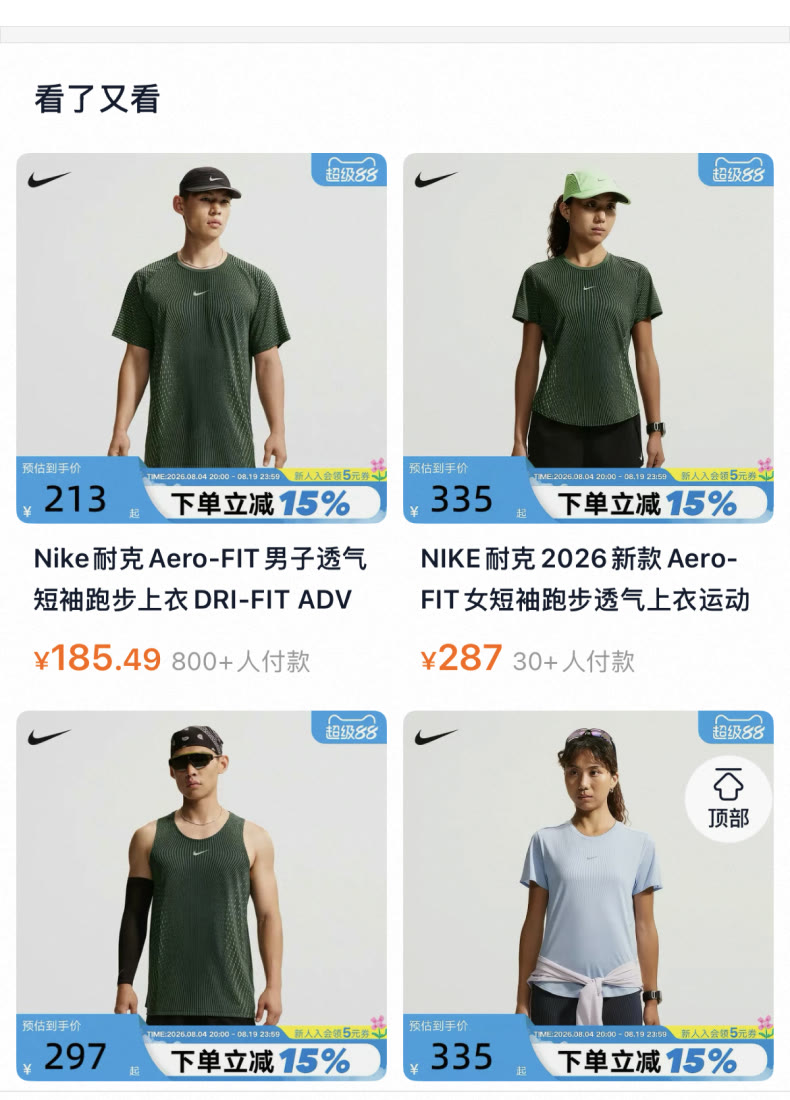
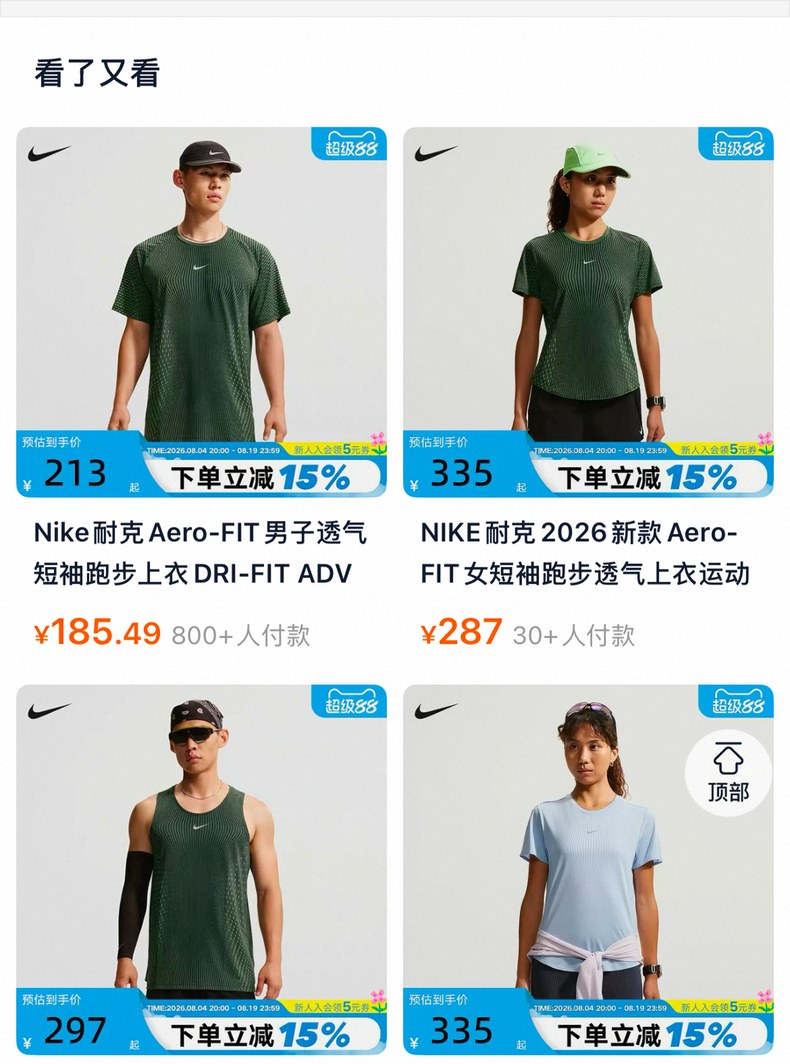
Show shared recommendations on ACC backpacks and refresh look-again artwork

diff --git a/products.js b/products.js
@@ -9,6 +9,7 @@ window.NIKE_PRODUCTS = [
     hero: ['assets/products/nike-acc-1/hero-1.png','assets/products/nike-acc-1/hero-2.jpeg','assets/products/nike-acc-1/hero-3.jpeg','assets/products/nike-acc-1/hero-4.jpeg','assets/products/nike-acc-1/hero-5.png'],
     detailParts: ['assets/products/acc-eg-v66/eg1-detail/01.jpg','assets/products/acc-eg-v66/eg1-detail/02.jpg','assets/products/acc-eg-v66/eg1-detail/03.jpg','assets/products/acc-eg-v66/eg1-detail/04.jpg','assets/products/acc-eg-v66/eg1-detail/05.jpg','assets/products/acc-eg-v66/eg1-detail/06.jpg','assets/products/acc-eg-v66/eg1-detail/07.jpg'],
     hideGalleryStrip: true,
+    appendSharedRecommendations: true,
     detailAlt: 'Nike 21L 运动双肩包 ACC 1 完整商品详情',
     specs: ['双肩包','运动','Nike','通用'],
   },
@@ -22,6 +23,7 @@ window.NIKE_PRODUCTS = [
     hero: ['assets/products/nike-acc-2/hero-1.png','assets/products/nike-acc-2/hero-2.jpeg','assets/products/nike-acc-2/hero-3.jpeg','assets/products/nike-acc-2/hero-4.jpeg','assets/products/nike-acc-2/hero-5.png'],
     detailParts: ['assets/products/acc-eg-v66/eg2-detail/01.jpg','assets/products/acc-eg-v66/eg2-detail/02.jpg','assets/products/acc-eg-v66/eg2-detail/03.jpg','assets/products/acc-eg-v66/eg2-detail/04.jpg','assets/products/acc-eg-v66/eg2-detail/05.jpg','assets/products/acc-eg-v66/eg2-detail/06.jpg','assets/products/acc-eg-v66/eg2-detail/07.jpg'],
     hideGalleryStrip: true,
+    appendSharedRecommendations: true,
     detailAlt: 'Nike 21L 运动双肩包 ACC 2 完整商品详情',
     specs: ['双肩包','运动','Nike','通用'],
   },

diff --git a/index.html b/index.html
@@ -88,7 +88,7 @@
       <img id="detailImage" src="assets/shoe-detail-long.jpeg" alt="Nike Performance FTW 完整商品详情" loading="lazy" decoding="async" />
     </section>
     <section class="shared-recommendations" id="sharedRecommendations" aria-label="看了又看" hidden>
-      <img src="assets/shared/look-again.jpg?v=69" alt="看了又看商品推荐" loading="lazy" decoding="async" />
+      <img src="assets/shared/look-again.jpg?v=70" alt="看了又看商品推荐" loading="lazy" decoding="async" />
     </section>
     <footer class="buybar buybar-original">
       <img src="assets/buybar-original.png" alt="店铺、客服、收藏、加入购物车、领券购买" />
@@ -97,7 +97,7 @@
     </footer>
     <div class="toast" id="toast" role="status"></div>
   </main>
-  <script src="products.js?v=69"></script>
-  <script src="script.js?v=69"></script>
+  <script src="products.js?v=70"></script>
+  <script src="script.js?v=70"></script>
 </body>
 </html>

diff --git a/list.html b/list.html
@@ -17,7 +17,7 @@
   <title>Nike 商品列表</title>
   <link rel="manifest" href="manifest.webmanifest" />
   <link rel="apple-touch-icon" href="assets/apple-touch-icon-fire.png" />
-  <link rel="stylesheet" href="list.css?v=69" />
+  <link rel="stylesheet" href="list.css?v=70" />
   <link rel="stylesheet" href="list-overrides.css?v=65" />
   <link rel="stylesheet" href="browser-overrides.css?v=64" />
   <link rel="stylesheet" href="install.css?v=33" />
@@ -34,7 +34,7 @@
     <div class="deal-line"><span>限时红包</span><b id="countdown">22:31</b></div>
     <section class="product-grid" id="productGrid" aria-label="Nike 商品列表"></section>
   </main>
-  <script src="products.js?v=69"></script>
-  <script src="list.js?v=69"></script>
+  <script src="products.js?v=70"></script>
+  <script src="list.js?v=70"></script>
 </body>
 </html>

diff --git a/service-worker.js b/service-worker.js
@@ -1,4 +1,4 @@
-const CACHE_NAME = 'nike-pdp-v69';
+const CACHE_NAME = 'nike-pdp-v70';
 const APP_SHELL = [
   './',
   './index.html',
